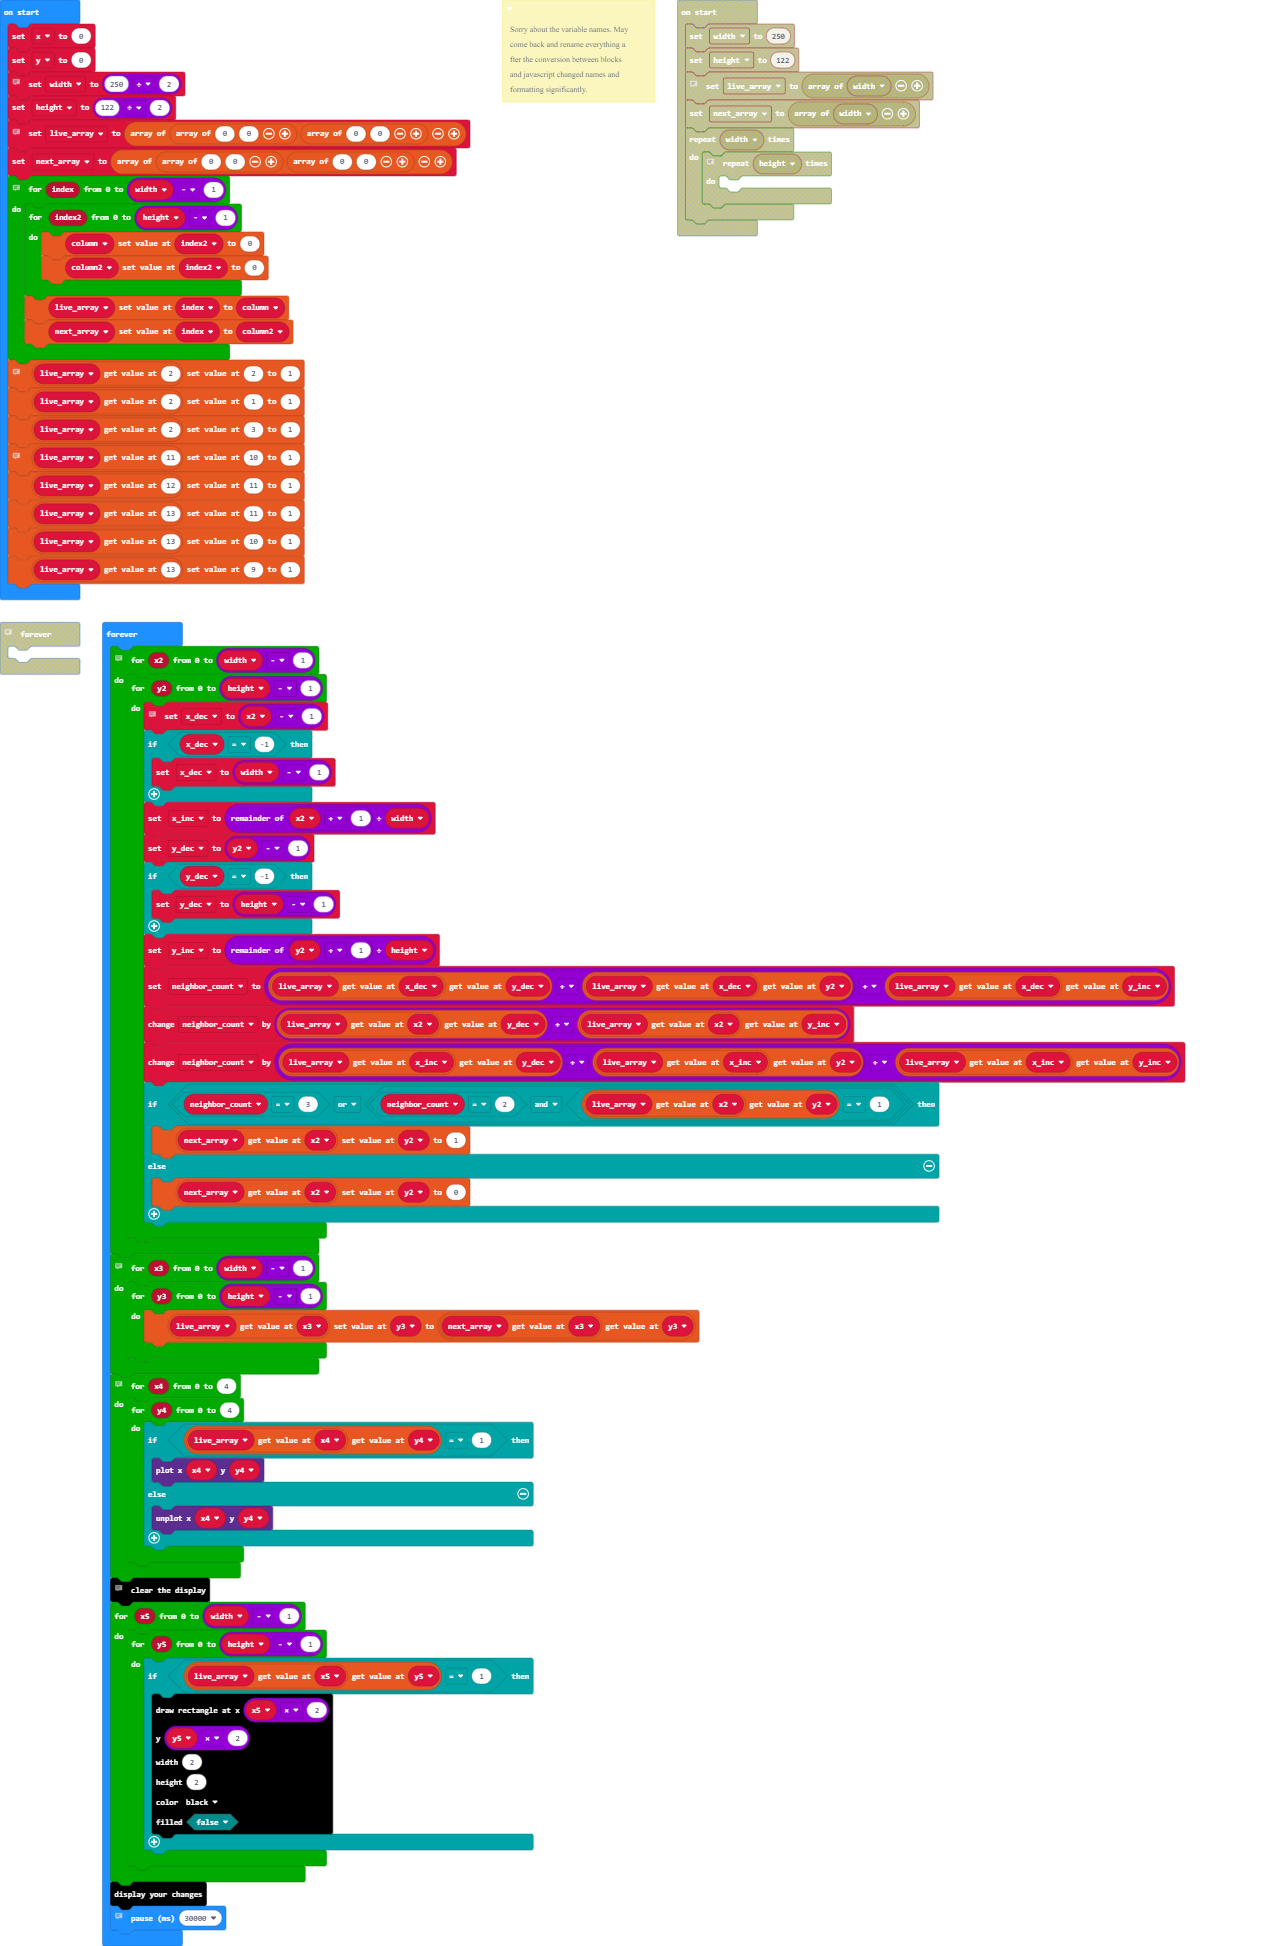
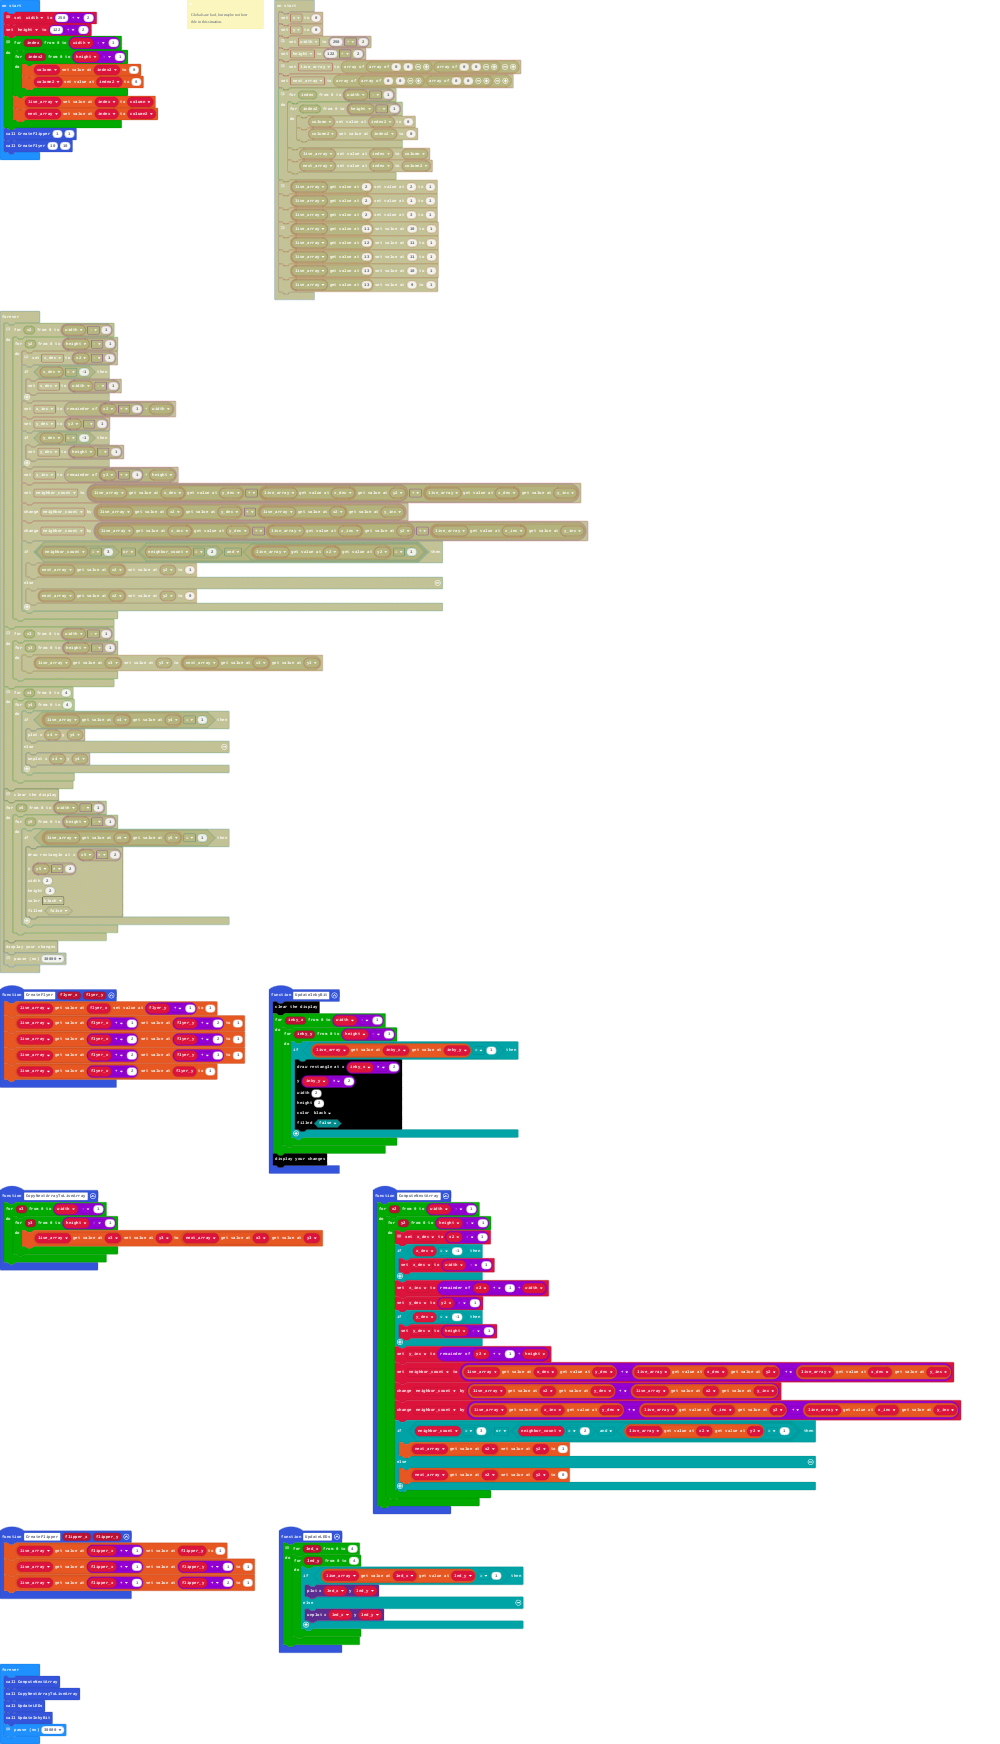
Refactored the loop and some other code into smaller functions to aid readability

diff --git a/main.ts b/main.ts
@@ -1,50 +1,55 @@
-/**
- * Sorry about the variable names. May come back
- * 
- * and rename everything after the conversion
- * 
- * between blocks and javascript changed names and
- * 
- * formatting significantly.
- */
-let neighbor_count = 0
-let y_inc = 0
-let y_dec = 0
-let x_inc = 0
-let x_dec = 0
-let x = 0
-let y = 0
-// Set the width and height to be 1/2 the number of pixels for 2 reasons:
-// 1. There isn't enough memory for full-sized arrays
-// 2. The individual pixels are so small it doesn't look good anyway.
-let width = 250 / 2
-let height = 122 / 2
-// Set some values so the typing works
-let live_array = [[0, 0], [0, 0]]
-let next_array = [[0, 0], [0, 0]]
-// build out the 2d arrays that represent the "frame" or "grid"
-for (let index = 0; index <= width - 1; index++) {
-    let column2: number[] = []
-    let column: number[] = []
-    for (let index2 = 0; index2 <= height - 1; index2++) {
-        column[index2] = 0
-        column2[index2] = 0
+function CopyNextArrayToLiveArray () {
+    for (let x3 = 0; x3 <= width - 1; x3++) {
+        for (let y3 = 0; y3 <= height - 1; y3++) {
+            live_array[x3][y3] = next_array[x3][y3]
+        }
     }
-    live_array[index] = column
-    next_array[index] = column2
 }
-// build a flipper
-live_array[2][2] = 1
-live_array[2][1] = 1
-live_array[2][3] = 1
-// and a flyer that will eventually crash into the flipper
-live_array[11][10] = 1
-live_array[12][11] = 1
-live_array[13][11] = 1
-live_array[13][10] = 1
-live_array[13][9] = 1
-basic.forever(function () {
-    // Compute the next frame
+function UpdateInkyBit () {
+    inkybit.clear()
+    for (let inky_x = 0; inky_x <= width - 1; inky_x++) {
+        for (let inky_y = 0; inky_y <= height - 1; inky_y++) {
+            if (live_array[inky_x][inky_y] == 1) {
+                inkybit.drawRectangle(
+                inky_x * 2,
+                inky_y * 2,
+                2,
+                2,
+                inkybit.Color.Black,
+                false
+                )
+            }
+        }
+    }
+    inkybit.show()
+}
+function CreateFlipper (flipper_x: number, flipper_y: number) {
+    live_array[flipper_x + 1][flipper_y] = 1
+    live_array[flipper_x + 1][flipper_y + 1] = 1
+    live_array[flipper_x + 1][flipper_y + 2] = 1
+}
+function UpdateLEDs () {
+    // display on LEDs
+    for (let led_x = 0; led_x <= 4; led_x++) {
+        for (let led_y = 0; led_y <= 4; led_y++) {
+            if (live_array[led_x][led_y] == 1) {
+                led.plot(led_x, led_y)
+            } else {
+                led.unplot(led_x, led_y)
+            }
+        }
+    }
+}
+
+function CreateFlyer (flyer_x: number, flyer_y: number) {
+    live_array[flyer_x][flyer_y + 1] = 1
+    live_array[flyer_x + 1][flyer_y + 2] = 1
+    live_array[flyer_x + 2][flyer_y + 2] = 1
+    live_array[flyer_x + 2][flyer_y + 1] = 1
+    live_array[flyer_x + 2][flyer_y] = 1
+}
+
+function ComputeNextArray () {
     for (let x2 = 0; x2 <= width - 1; x2++) {
         for (let y2 = 0; y2 <= height - 1; y2++) {
             // Javascript doesn't % negative numbers to positive numbers, so
@@ -69,39 +74,39 @@ basic.forever(function () {
             }
         }
     }
-    // copy next frame to current frame
-    for (let x3 = 0; x3 <= width - 1; x3++) {
-        for (let y3 = 0; y3 <= height - 1; y3++) {
-            live_array[x3][y3] = next_array[x3][y3]
-        }
+}
+let neighbor_count = 0
+let y_inc = 0
+let y_dec = 0
+let x_inc = 0
+let x_dec = 0
+let next_array: number[][] = []
+let live_array: number[][] = []
+let height = 0
+let width = 0
+// Set the width and height to be 1/2 the number of pixels for 2 reasons:
+// 1. There isn't enough memory for full-sized arrays
+// 2. The individual pixels are so small it doesn't look good anyway.
+width = 250 / 2
+height = 122 / 2
+// build out the 2d arrays that represent the "frame" or "grid"
+for (let index = 0; index <= width - 1; index++) {
+    let column2: number[] = []
+    let column: number[] = []
+    for (let index2 = 0; index2 <= height - 1; index2++) {
+        column[index2] = 0
+        column2[index2] = 0
     }
-    // display on LEDs
-    for (let x4 = 0; x4 <= 4; x4++) {
-        for (let y4 = 0; y4 <= 4; y4++) {
-            if (live_array[x4][y4] == 1) {
-                led.plot(x4, y4)
-            } else {
-                led.unplot(x4, y4)
-            }
-        }
-    }
-    // display on eink
-    inkybit.clear()
-    for (let x5 = 0; x5 <= width - 1; x5++) {
-        for (let y5 = 0; y5 <= height - 1; y5++) {
-            if (live_array[x5][y5] == 1) {
-                inkybit.drawRectangle(
-                x5 * 2,
-                y5 * 2,
-                2,
-                2,
-                inkybit.Color.Black,
-                false
-                )
-            }
-        }
-    }
-    inkybit.show()
+    live_array[index] = column
+    next_array[index] = column2
+}
+CreateFlipper(1, 1)
+CreateFlyer(10, 10)
+basic.forever(function () {
+    ComputeNextArray()
+    CopyNextArrayToLiveArray()
+    UpdateLEDs()
+    UpdateInkyBit()
     // the inkybit.clear() takes ~11 seconds and we want to show the
     // completed scene for a reasonable amount of time. 30 seconds
     // seemed about right.
